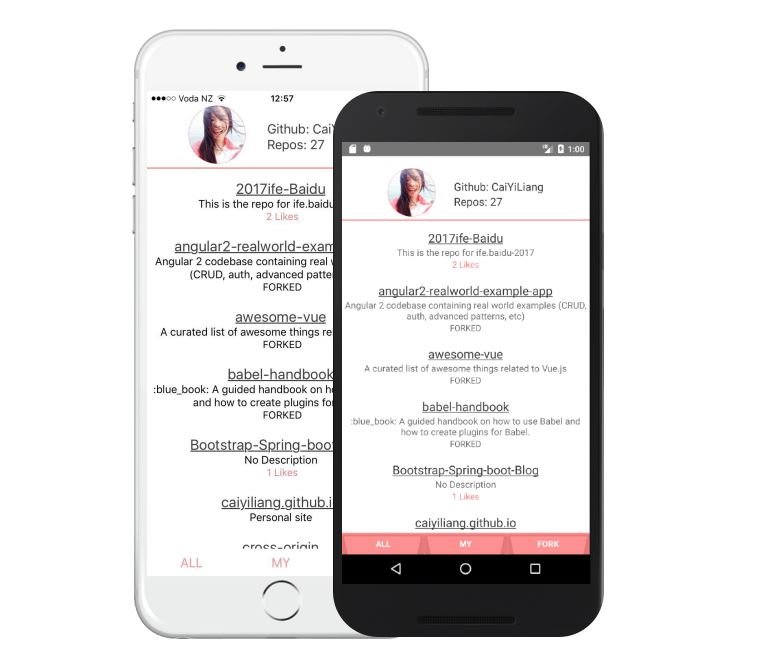
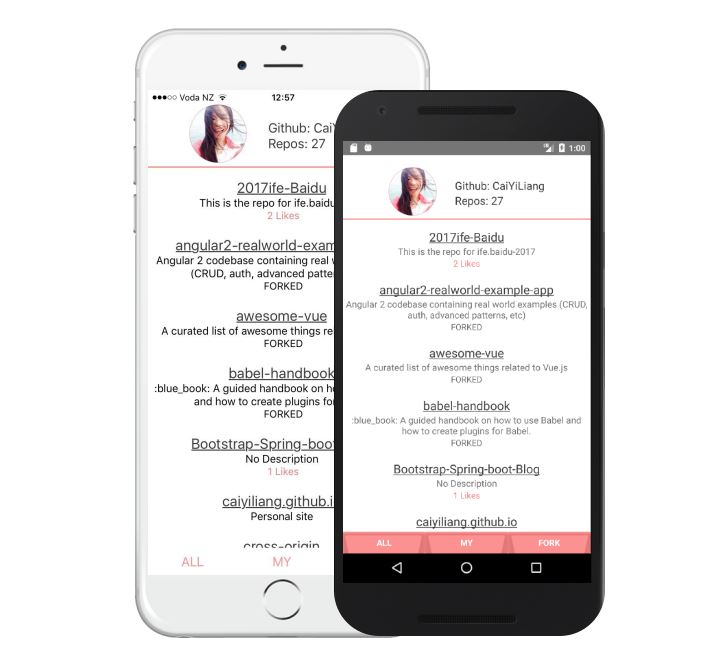
Native List

Changed region(s): [[0.1554, 0.03, 0.8701, 0.961], [0.5904, 0.0601, 0.6215, 0.1502], [0.2486, 0.8408, 0.2797, 0.8709]]

diff --git a/README.md b/README.md
@@ -5,7 +5,7 @@
 <br>
 
 ## demo
-<img src="./nativeList.JPG" alt="Native-GithubRepos-List" width="450px" >
+<img src="./nativeList.JPG" alt="Native-GithubRepos-List" width="708px" >
 <br>
 
 ## Build Setup
